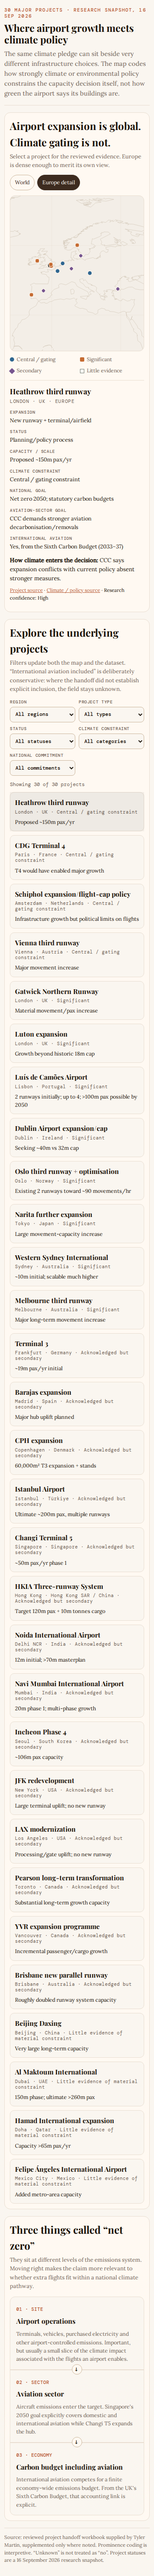
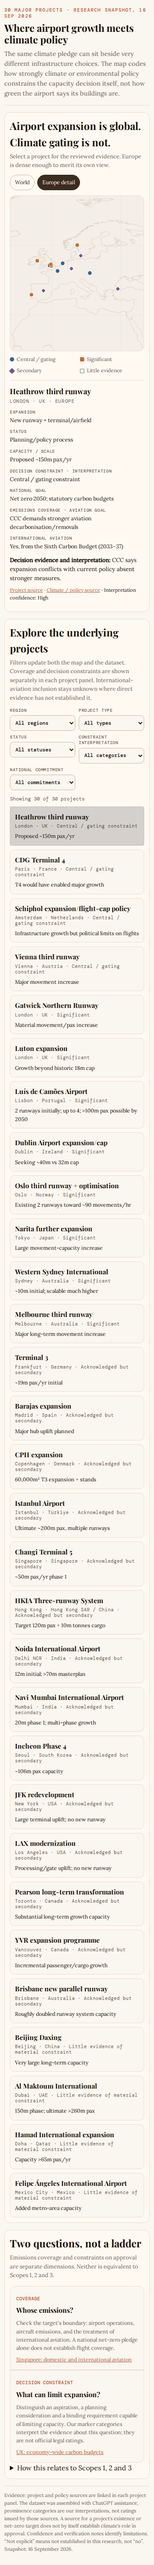
Separate emissions coverage from decision constraints and explain corporate scopes

diff --git a/public/airport-climate/index.html b/public/airport-climate/index.html
@@ -24,27 +24,27 @@
 <div id="detail" class="detail" aria-live="polite"><p class="detail-empty">Select a marker, table row or card to inspect a project.</p></div>
 </section>
 <section class="panel">
-<h2>Explore the underlying projects</h2><p class="panel-sub">Filters update both the map and the dataset. “International aviation included” is deliberately conservative: where the handoff did not establish explicit inclusion, the field stays unknown.</p>
+<h2>Explore the underlying projects</h2><p class="panel-sub">Filters update both the map and the dataset. Coverage and decision constraints are shown separately in each project panel. International-aviation inclusion stays unknown where direct evidence has not established it.</p>
 <div class="filters">
 <label>Region<select id="regionFilter"><option value="">All regions</option></select></label>
 <label>Project type<select id="typeFilter"><option value="">All types</option></select></label>
 <label>Status<select id="statusFilter"><option value="">All statuses</option></select></label>
-<label>Climate constraint<select id="promFilter"><option value="">All categories</option></select></label>
+<label>Constraint interpretation<select id="promFilter"><option value="">All categories</option></select></label>
 <label>National commitment<select id="commitFilter"><option value="">All commitments</option></select></label>
 </div>
 <p id="count" class="count"></p>
-<div class="table-wrap"><table><thead><tr><th data-sort="project">Project ↕</th><th data-sort="country">Country ↕</th><th data-sort="project_type">Type ↕</th><th data-sort="status_group">Status ↕</th><th data-sort="prominence_score">Climate constraint ↕</th><th data-sort="capacity">Capacity / scale ↕</th></tr></thead><tbody id="tbody"></tbody></table></div>
+<div class="table-wrap"><table><thead><tr><th data-sort="project">Project ↕</th><th data-sort="country">Country ↕</th><th data-sort="project_type">Type ↕</th><th data-sort="status_group">Status ↕</th><th data-sort="prominence_score">Constraint interpretation ↕</th><th data-sort="capacity">Capacity / scale ↕</th></tr></thead><tbody id="tbody"></tbody></table></div>
 <div id="cards" class="cards"></div>
 </section>
 <section class="panel netzero">
-<h2>Three things called “net zero”</h2><p class="panel-sub">They sit at different levels of the emissions system. Moving right makes the claim more relevant to whether extra flights fit within a national climate pathway.</p>
-<div class="ladder">
-<div class="step"><span class="num">01 · SITE</span><h3>Airport operations</h3><p>Terminals, vehicles, purchased electricity and other airport-controlled emissions. Important, but usually a small slice of the climate impact associated with the flights an airport enables.</p><span class="arrow" aria-hidden="true">→</span></div>
-<div class="step"><span class="num">02 · SECTOR</span><h3>Aviation sector</h3><p>Aircraft emissions enter the target. Singapore's 2050 goal explicitly covers domestic and international aviation while Changi T5 expands the hub.</p><span class="arrow" aria-hidden="true">→</span></div>
-<div class="step"><span class="num">03 · ECONOMY</span><h3>Carbon budget including aviation</h3><p>International aviation competes for a finite economy-wide emissions budget. From the UK's Sixth Carbon Budget, that accounting link is explicit.</p></div>
+<h2>Two questions, not a ladder</h2><p class="panel-sub">Emissions coverage and constraints on approval are separate dimensions. Neither is equivalent to Scopes 1, 2 and 3.</p>
+<div class="ladder" style="grid-template-columns:repeat(auto-fit,minmax(min(100%,250px),1fr))">
+<div class="step"><span class="num">COVERAGE</span><h3>Whose emissions?</h3><p>Check the target's boundary: airport operations, aircraft emissions, and the treatment of international aviation. A national net-zero pledge alone does not establish flight coverage.</p><p><a href="https://www.caas.gov.sg/sustainability/sustainable-air-hub-blueprint/" target="_blank" rel="noreferrer">Singapore: domestic and international aviation</a></p></div>
+<div class="step"><span class="num">DECISION CONSTRAINT</span><h3>What can limit expansion?</h3><p>Distinguish an aspiration, a planning consideration and a binding requirement capable of limiting capacity. Our marker categories interpret the evidence about this question; they are not official legal ratings.</p><p><a href="https://www.gov.uk/guidance/carbon-budgets" target="_blank" rel="noreferrer">UK: economy-wide carbon budgets</a></p></div>
 </div>
+<details><summary>How this relates to Scopes 1, 2 and 3</summary><p>Scopes describe emissions relative to an organisation: direct emissions (1), purchased energy (2), and other indirect value-chain emissions (3). An airline's fuel burn is its Scope 1; aircraft emissions can be an airport operator's Scope 3. Do not add those overlapping inventories. A national carbon budget is a different accounting and legal framework, not a corporate scope.</p><p>Airport operational net zero often covers the operator's Scopes 1 and 2. Check wider promises separately: coverage does not itself establish a restriction on expansion.</p><p><a href="https://ghgprotocol.org/sites/default/files/standards/ghg-protocol-revised.pdf" target="_blank" rel="noreferrer">GHG Protocol Corporate Standard, chapters 3–4</a> · <a href="https://www.airportcarbonaccreditation.org/about/7-levels-of-accreditation/level-5/" target="_blank" rel="noreferrer">Airport Carbon Accreditation boundaries</a></p></details>
 </section>
-<footer>Source: reviewed project handoff workbook supplied by Tyler Martin, supplemented only where noted. Prominence coding is interpretive. “Unknown” is not treated as “no”. Project statuses are a 16 September 2026 research snapshot.</footer>
+<footer>Evidence: project and policy sources are linked in each project panel. The dataset was assembled with ChatGPT assistance; prominence categories are our interpretations, not ratings issued by those sources. A source for a project's existence or net-zero target does not by itself establish climate's role in approval. Confidence and verification notes identify limitations. “Not explicit” means not established in this research, not “no”. Snapshot: 16 September 2026.</footer>
 </main>
 <script src="./app.js"></script><script src="./resize.js"></script>
 </body></html>

diff --git a/public/airport-climate/app.js b/public/airport-climate/app.js
@@ -34,9 +34,9 @@ function select(id,scroll=false){
  detail.innerHTML=`<h3>${esc(r.project)}</h3><div class="place">${esc(r.city)} · ${esc(r.country)} · ${esc(r.region)}</div>
  <div class="detail-grid">
  <div><b>Expansion</b>${esc(r.expansion_type)}</div><div><b>Status</b>${esc(r.status)}</div><div><b>Capacity / scale</b>${esc(r.capacity)}</div>
- <div><b>Climate constraint</b>${esc(r.prominence)}</div><div><b>National goal</b>${esc(r.national_climate_goal)}</div><div><b>Aviation-sector goal</b>${esc(r.aviation_climate_goal)}</div><div><b>International aviation</b>${esc(r.international_aviation_included)}</div>
- </div><p class="detail-note"><strong>How climate enters the decision:</strong> ${esc(r.evidence_note)}</p>
- <p class="sources">${sourceLink(r.project_source,'Project source')}${r.project_source&&r.climate_source?' · ':''}${sourceLink(r.climate_source,'Climate / policy source')} · Research confidence: ${esc(r.confidence)}</p>${r.verification_note?`<p class="sources">Checked 16 September 2026: ${esc(r.verification_note)} ${sourceLink(r.verification_source,'Verification source')}</p>`:''}`;
+ <div><b>Decision constraint · interpretation</b>${esc(r.prominence)}</div><div><b>National goal</b>${esc(r.national_climate_goal)}</div><div><b>Emissions coverage · aviation goal</b>${esc(r.aviation_climate_goal)}</div><div><b>International aviation</b>${esc(r.international_aviation_included)}</div>
+ </div><p class="detail-note"><strong>Decision evidence and interpretation:</strong> ${esc(r.evidence_note)}</p>
+ <p class="sources">${sourceLink(r.project_source,'Project source')}${r.project_source&&r.climate_source?' · ':''}${sourceLink(r.climate_source,'Climate / policy source')} · Interpretation confidence: ${esc(r.confidence)}</p>${r.verification_note?`<p class="sources">Checked 16 September 2026: ${esc(r.verification_note)} ${sourceLink(r.verification_source,'Verification source')}</p>`:''}`;
  markers.querySelectorAll('.marker').forEach(el=>{el.classList.toggle('is-active',el.dataset.id===id);el.setAttribute('aria-pressed',String(el.dataset.id===id))});
  document.querySelectorAll('[data-row-id]').forEach(el=>el.classList.toggle('is-active',el.dataset.rowId===id));
  if(scroll)detail.scrollIntoView({behavior:matchMedia('(prefers-reduced-motion: reduce)').matches?'auto':'smooth',block:'nearest'});

diff --git a/src/pages/blog/airport-climate.md b/src/pages/blog/airport-climate.md
@@ -70,21 +70,21 @@ The CCC's new Heathrow advice makes the consequence explicit. Under current poli
 
 This is why "Britain is anti-airport" is the wrong reading. The system is designed to force the trade-off into the open.
 
-## Three different net zeros
+## What is covered, and what is constrained?
 
-A lot of the apparent contradiction disappears once you notice that "net zero airport" can mean three quite different things.
+“Net zero airport” can describe very different promises. Two questions help separate them: **which emissions are covered, and what does the commitment require before expansion can go ahead?** These are separate dimensions, not three official levels of climate ambition.
 
-The narrowest is **airport operations**. An airport can electrify ground vehicles, buy renewable electricity, improve terminal efficiency and call its own operations net zero. Those are real emissions reductions. But they do not, by themselves, cover most of the emissions associated with the aircraft taking off from the runways.
+Coverage can stop at the airport operator's buildings and vehicles, extend to the aircraft using the airport, or sit within national emissions accounting that explicitly includes international aviation. The boundary has to be checked in the actual target. An operational commitment does not establish that flights are covered, and a national net-zero pledge does not establish how international aviation is allocated.
 
-The second is **aviation-sector net zero**. Now aircraft emissions are inside the promise. Singapore belongs here. The United States' [2021 FAA aviation climate plan](https://www.faa.gov/general/2021-united-states-aviation-climate-action-plan) also set a path towards net-zero greenhouse-gas emissions from the US aviation sector by 2050. This is a much more demanding target than greening terminal buildings.
+This relates to, but is not the same as, the [GHG Protocol's Scopes 1, 2 and 3](https://ghgprotocol.org/sites/default/files/standards/ghg-protocol-revised.pdf). Scope 1 covers an organisation's direct emissions; Scope 2 covers purchased energy; Scope 3 covers other indirect value-chain emissions. The reporting organisation matters: jet fuel burned by an airline is its Scope 1, while aircraft emissions can sit in an airport operator's Scope 3. These are overlapping perspectives, not totals to add together.
 
-The third is what Britain has moved towards: **an economy-wide carbon budget that explicitly includes international aviation**. This does something the other two do not necessarily do. It creates a finite emissions envelope and makes aviation compete inside it.
+Airport operational net zero therefore often concerns the operator's Scopes 1 and 2. Wider commitments need separate scrutiny: [Airport Carbon Accreditation's Level 5](https://www.airportcarbonaccreditation.org/about/7-levels-of-accreditation/level-5/), for example, distinguishes an achieved net-zero balance for Scopes 1 and 2 from action towards net zero across relevant Scope 3 sources. Neither the label nor the scope number tells us whether more flights can be approved.
 
-That institutional detail matters more than I expected when I started this.
+That is the second question: **what constrains the decision?** A target can be an aspiration, a consideration assessed in planning, or a binding requirement capable of limiting capacity. Those descriptions concern the decision mechanism. Our map's four prominence categories are interpretive summaries of the available evidence, not official legal classifications or a measurement of emissions coverage.
 
-A country can have a 2050 net-zero target and still rationally approve a new runway if its framework assumes future sustainable fuels, more efficient aircraft, carbon pricing or removals will reconcile the two. It can have an airport with a flawless operational net-zero plan while the flights enabled by that airport keep growing. And it can have a serious aviation-sector target without making the carbon consequences of each individual infrastructure decision a legal gating test.
+Singapore makes the separation useful. Its aviation target explicitly includes domestic and international flights, yet its [Blueprint](https://www.caas.gov.sg/sustainability/sustainable-air-hub-blueprint/) supports continued hub growth alongside decarbonisation. Britain's [carbon budgets](https://www.gov.uk/guidance/carbon-budgets) place its share of international aviation inside an economy-wide emissions envelope. That is a national legal framework, not “Scope 3” or a fourth corporate scope. Inclusion makes compatibility a consequential question; it does not establish that every expansion is incompatible.
 
-Those positions may turn out to be too optimistic about technology. They may also be right. But they are not logically inconsistent in the way they first appear.
+The [CCC's Heathrow advice](https://www.theccc.org.uk/publication/advice-to-the-uk-government-on-proposed-heathrow-airport-expansion/) illustrates the distinction: stronger aviation policy could make expansion compatible. What matters is the combination of emissions coverage and an enforceable constraint, not simply how broad a net-zero slogan sounds.
 
 ## The rest of the world is building
 
@@ -111,9 +111,9 @@ Second, "environment" is broader than carbon. Schiphol's constraints are insepar
 
 The coding also produces some awkward cases. Gatwick's Northern Runway was approved inside the same British carbon-budget architecture that makes Heathrow such a difficult case. That is useful evidence, not a bug. A strong climate framework does not mechanically prohibit airport growth. Project scale, demand assumptions, existing capacity, mitigation and the government's wider aviation policy all matter.
 
-The categories are therefore best read as a measure of **institutional friction**. At one end, climate is something a project must survive. At the other, it is something the airport is expected to manage while the strategic case for expansion is largely taken as given.
+The categories are therefore best read as an interpretation of **institutional friction**. The dataset was assembled with ChatGPT assistance; the classifications are analytical judgements, not ratings issued by the linked sources. The workbook records that analysis but is not independent evidence for it. At one end, climate is something a project must survive. At the other, it is something the airport is expected to manage while the strategic case for expansion is largely taken as given.
 
-I also left unknowns as unknowns. The phrase "net zero by 2050" is easy to find in national plans; whether it explicitly includes international aviation on a comparable accounting basis often is not. The interactive only marks that inclusion as established where the research handoff or a primary source made it clear. A blank in that field is not evidence that a country excludes aviation.
+I also left unknowns as unknowns. The phrase "net zero by 2050" is easy to find in national plans; whether it explicitly includes international aviation on a comparable accounting basis often is not. The interactive only marks that inclusion as established for the UK and Singapore, supported by the government sources linked above. Elsewhere, “Not explicit” means it has not been established in this research, not that the country excludes aviation.
 
 ## What the argument is really about
 

diff --git a/docs/FACT-CHECK.md b/docs/FACT-CHECK.md
@@ -29,3 +29,11 @@ The supplied coastline geometry has no documented upstream provenance in the ZIP
 - [YVR climate policy](https://www.yvr.ca/en/about-yvr/environment/climate): confirms operational net zero by 2030. It does not verify an aircraft-emissions target or resolve the broad expansion programme's approval history. Added verification note; low confidence and international-aviation unknown retained.
 - [Avinor progress plan](https://om.avinor.no/en/innovation/third-runway/progress-plan/): reports the 2024 committee's assessment that additional runway capacity is unlikely to be needed before 2040. The supplied prose's assertion of an explicit decarbonisation condition was not established here, so it was replaced with the narrower evidenced statement. The original qualitative row score is retained, with a visible note that it is provisional.
 - Scoped the Asian/Gulf and European generalisations explicitly to the selected sample; removed an unsupported assertion that the mixed coding was necessarily conservative. These are editorial qualifications, not a wholesale rewrite.
+
+## Coverage, decision constraints and corporate scopes
+
+The article and interactive now separate emissions coverage from the strength/mechanism of an expansion constraint. The earlier three-stage ladder has been removed. The four existing map categories remain analytical interpretations, with explicit ChatGPT-assisted provenance; they are not official source ratings. No previously uncertain row has been promoted or assigned a new legal category merely from its score.
+
+The [GHG Protocol Corporate Standard, chapters 3–4](https://ghgprotocol.org/sites/default/files/standards/ghg-protocol-revised.pdf) supports the organisation-relative Scope 1/2/3 explanation. [Airport Carbon Accreditation Level 5](https://www.airportcarbonaccreditation.org/about/7-levels-of-accreditation/level-5/) distinguishes operational Scope 1/2 achievement from wider Scope 3 commitments. These references explain accounting boundaries; they do not prove a particular airport's expansion is constrained. The UK budget guidance and CAAS Blueprint cited above support the two contrasting policy examples.
+
+The workbook is now described as an analytical handoff rather than independent evidence. The source footer points to external project/policy references and explains their evidential limits. This framing update is not a claim that every original row's qualitative approval interpretation has been independently verified.

diff --git a/docs/DELIVERY.md b/docs/DELIVERY.md
@@ -57,3 +57,7 @@ See FACT-CHECK.md for primary/reputable source URLs and reasoning, and data-amen
 - npm's existing dependency advisories remain for a separate reviewed maintenance change.
 
 The extended review corrected the local test server's CSS MIME type and regenerated article screenshots. A computed-style assertion now prevents unstyled article renders from passing unnoticed. See QA.md for this distinction from the earlier standalone-interactive checks.
+
+## Framing revision
+
+Replaced the three-level net-zero ladder with two questions: emissions coverage and decision constraint. Added an organisation-relative Scope 1/2/3 explanation and direct GHG Protocol / Airport Carbon Accreditation references in the article and interactive. Source wording now identifies ChatGPT-assisted interpretation rather than treating the handoff workbook as external substantiation. All 30 records and their uncertainty remain unchanged by this revision. The separate draft preview is refreshed; production remains untouched.
